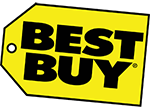
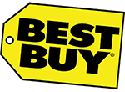
Fixed image name typo, fixed some image scaling

diff --git a/index.html b/index.html
@@ -90,15 +90,15 @@
                         <h2>Experience</h2>
                         <div class="col-sm-4">
                             
-                                <img id="scentsy-btn" class="animated zoomInDown img-responsive first emp-logo" src="images/scentsy.png" alt="Scentsy Employer Logo">
+                                <img id="scentsy-btn" class="animated zoomInDown img-responsive first emp-logo" src="images/scentsy.png" width="150" height="55" alt="Scentsy Employer Logo">
                             
                         </div>
                         <div class="col-sm-4">
                             
-                                <img id="bestbuy-btn"  class="animated zoomInDown img-responsive second emp-logo" width="75%" src="images/bestbuy.png" alt="Best Buy Employer Logo">
+                                <img id="bestbuy-btn"  class="animated zoomInDown img-responsive second emp-logo"  src="images/bestbuy.png" width="125" height="92" alt="Best Buy Employer Logo">
                         </div>
                         <div class="col-sm-4">
-                                <img id="observepoint-btn" class="animated zoomInDown img-responsive third emp-logo" width="75%" src="images/observepoint.jpg " alt="ObservePoint Employer Logo">
+                                <img id="observepoint-btn" class="animated zoomInDown img-responsive third emp-logo"  src="images/observepoint.jpg" width="125" height="85" alt="ObservePoint Employer Logo">
                         </div>
                     </div>
                 </section>
@@ -108,10 +108,10 @@
                         <h2>Education</h2>
 
                         <div class="col-sm-6">
-                                <img id="byui-btn" class="animated zoomInDown img-responsive fourth emp-logo" src="images/byui.jpg " alt="Brigham Young University-Idaho Education Logo">
+                                <img id="byui-btn" class="animated zoomInDown img-responsive fourth emp-logo" src="images/byui.jpg" width="125" height="75" alt="Brigham Young University-Idaho Education Logo">
                         </div>
                         <div class="col-sm-6">
-                                <img id="bcw-btn" class="animated zoomInDown img-responsive fifth emp-logo" src="images/boisecodeworks.jpg " alt="BoiseCodeWorks Education Logo">
+                                <img id="bcw-btn" class="animated zoomInDown img-responsive fifth emp-logo" src="images/boisecodeworks.jpg" width="150" height="51" alt="BoiseCodeWorks Education Logo">
                         </div>
                     </div>
                 </section>
